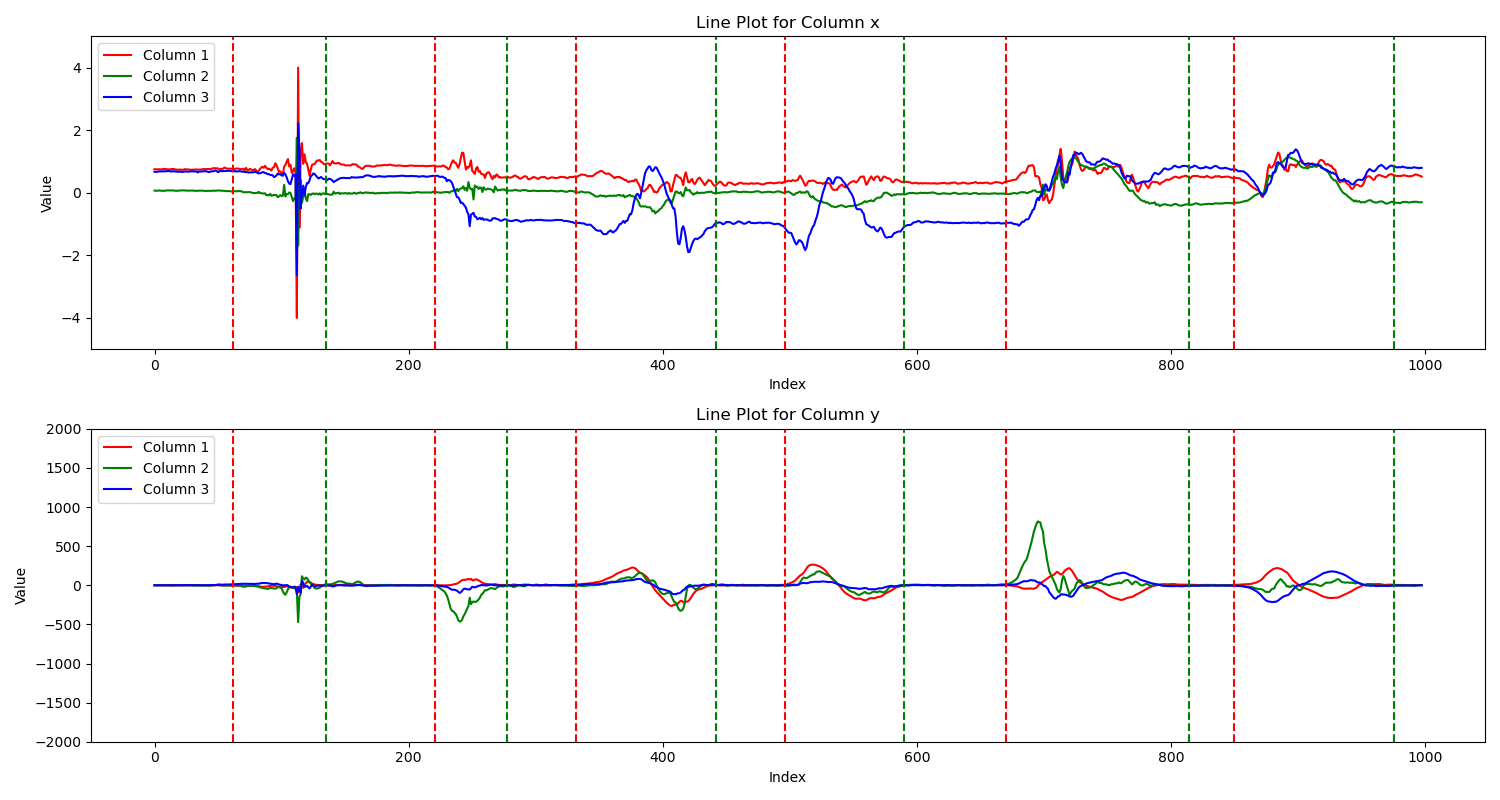
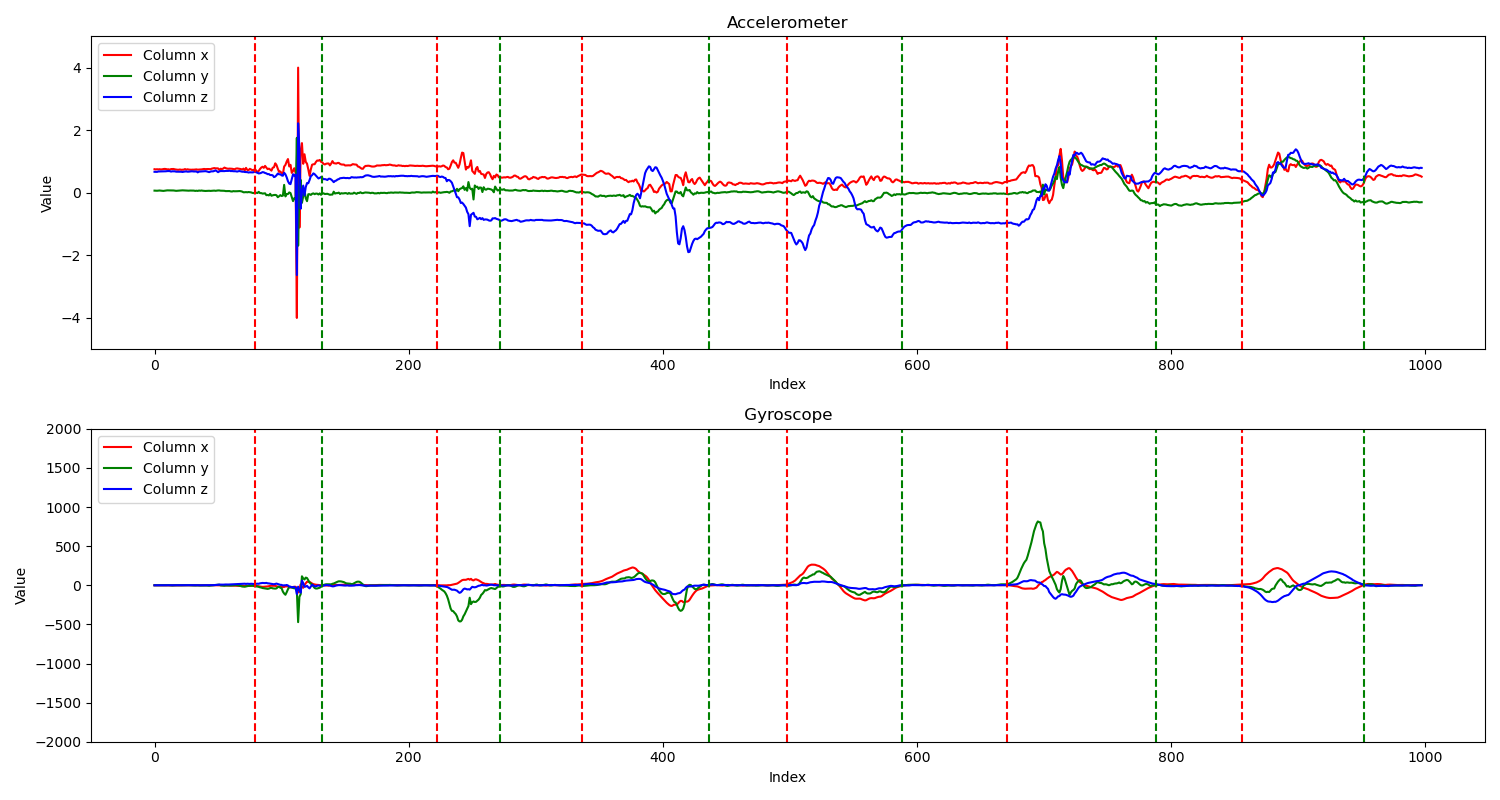
little change

Changed region(s): [[0.46, 0.0, 0.5827, 0.0625], [0.46, 0.5, 0.5827, 0.5312]]

diff --git a/src/cut_data_and_plot.py b/src/cut_data_and_plot.py
@@ -2,7 +2,7 @@ import pandas as pd
 import matplotlib.pyplot as plt
 import numpy as np
 
-n = 'yc_02_011'
+n = 'tb_woquan'
 
 min_gus_time = 25
 max_gus_time = 200
@@ -10,7 +10,7 @@ thredhold = 500
 mang_change = 70
 
 # Load the CSV file
-file_path = './data/'+ n +'.csv'
+file_path = './exp/'+ n +'.csv'
 data = pd.read_csv(file_path)
 
 # Display the dataframe to understand its structure
